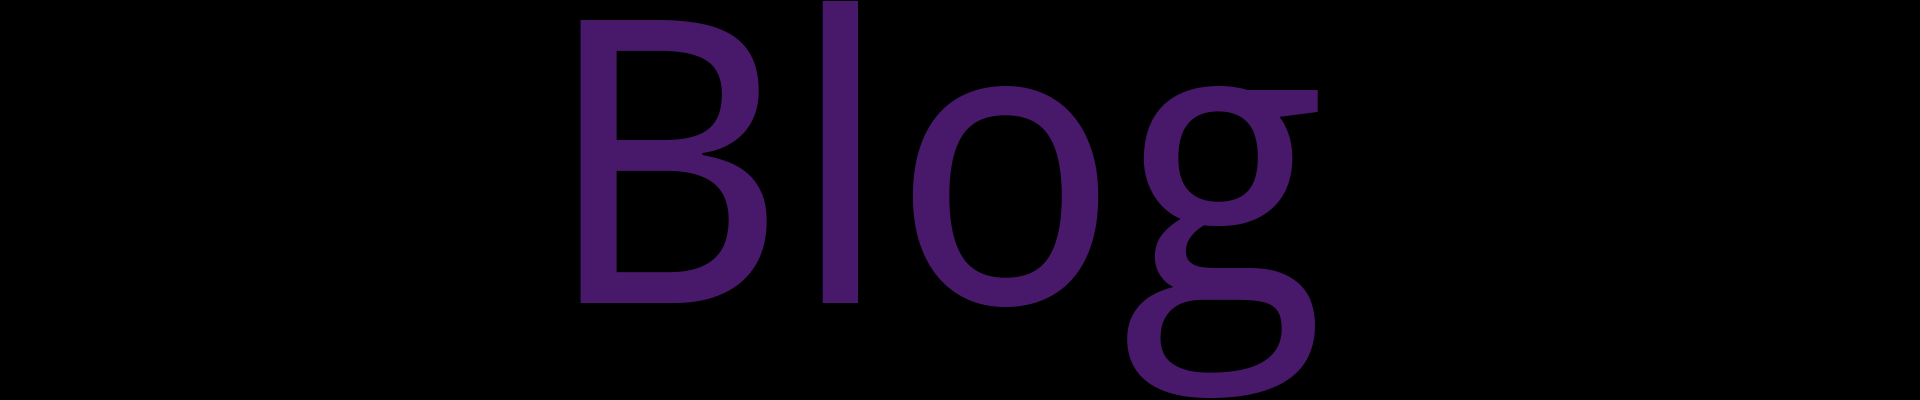
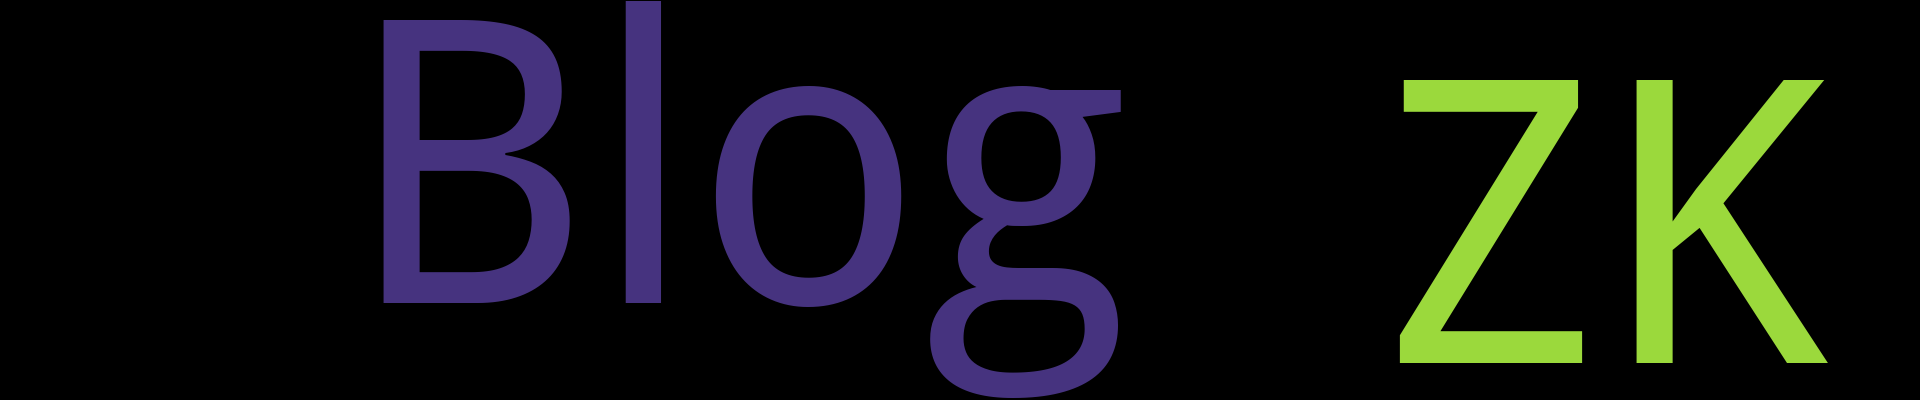
Update from Github Action

Changed region(s): [[0.1875, 0.0, 0.6875, 1.0], [0.7188, 0.18, 0.9688, 0.93]]

diff --git a/README.md b/README.md
@@ -1,7 +1,7 @@
 
 <p align='center'>
     <img src="https://badgen.net/github/issues/SpaceStation09//my-notes"/>
-    <img src="https://badgen.net/badge/last-commit/2024-09-20 09:58:03"/>
+    <img src="https://badgen.net/badge/last-commit/2024-10-28 06:17:57"/>
     <img src="https://badgen.net/github/stars/SpaceStation09//my-notes"/>
     <img src="https://badgen.net/github/watchers/SpaceStation09//my-notes"/>
 </p>
@@ -14,6 +14,14 @@
 <summary>Blog	[1篇]</summary>
 
 - 2024-09-20 [使用Github Issues 与 Git Action 写博客 - Hello, World!](https://github.com/SpaceStation09/my-notes/issues/1) 
+
+
+</details>
+            
+<details open>
+<summary>ZK	[1篇]</summary>
+
+- 2024-10-28 [零知识证明：R1CS 与 QAP](https://github.com/SpaceStation09/my-notes/issues/2) 
 
 
 </details>
